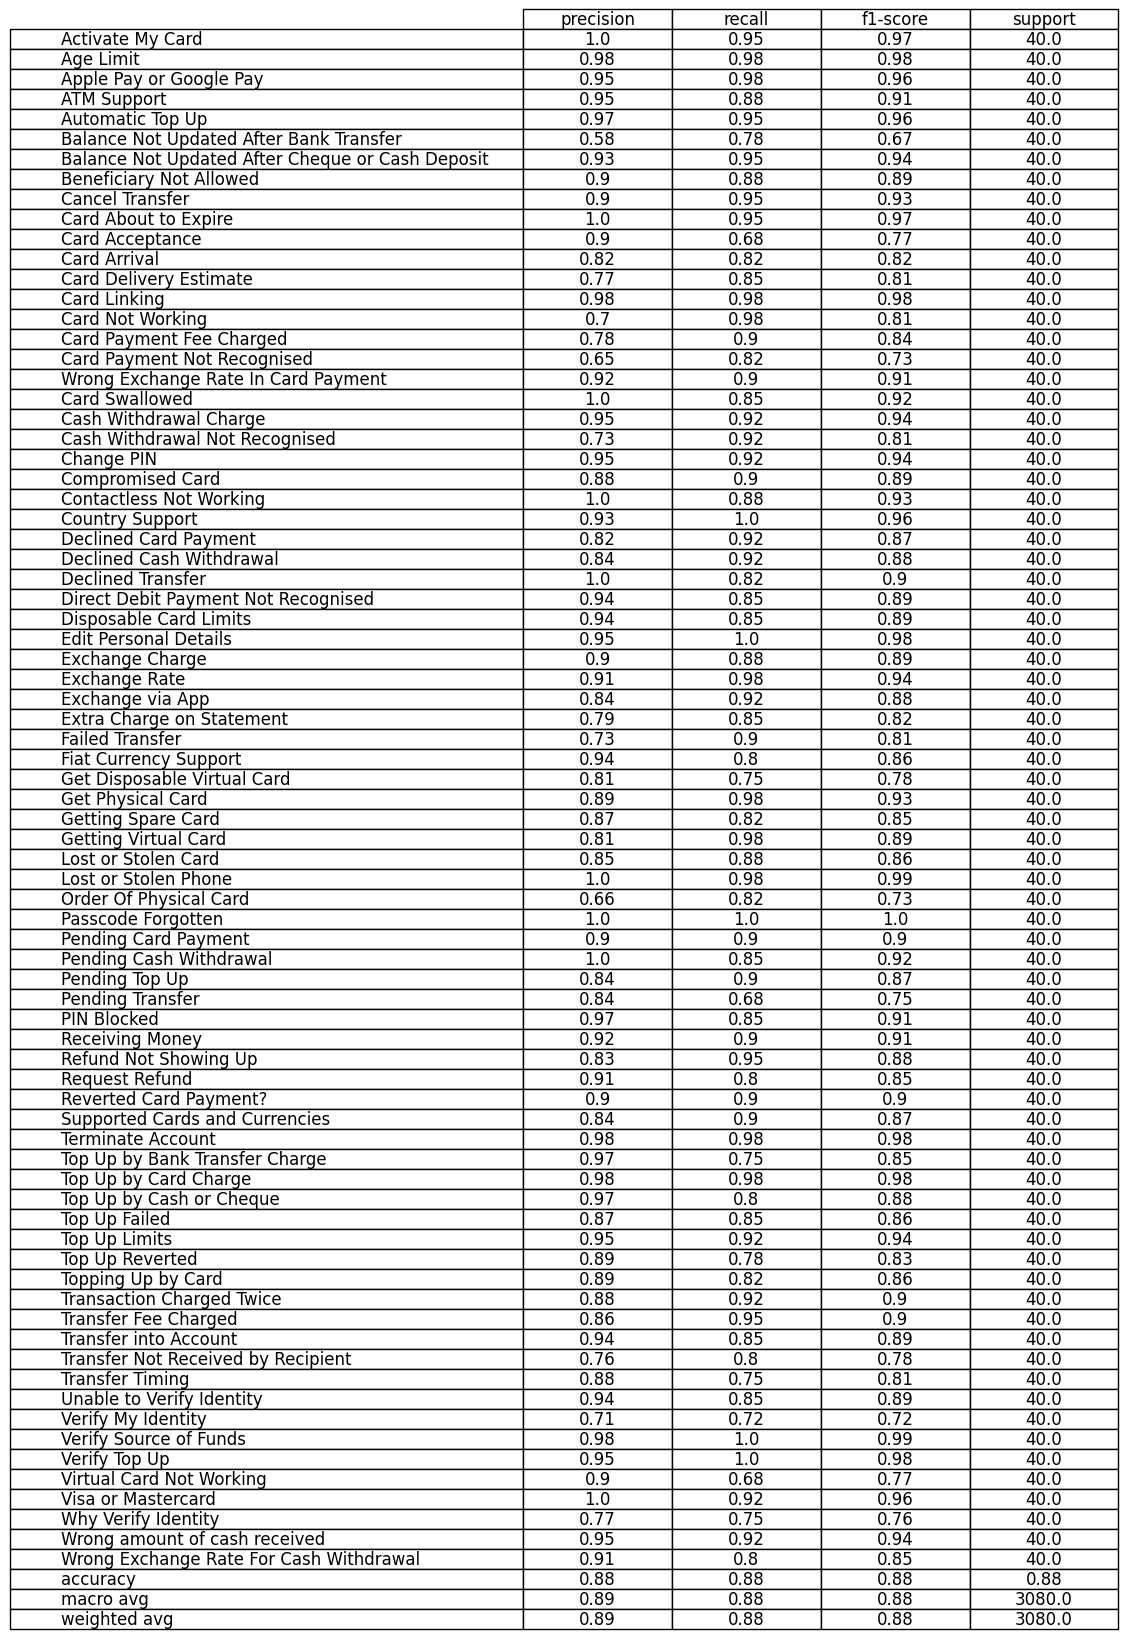
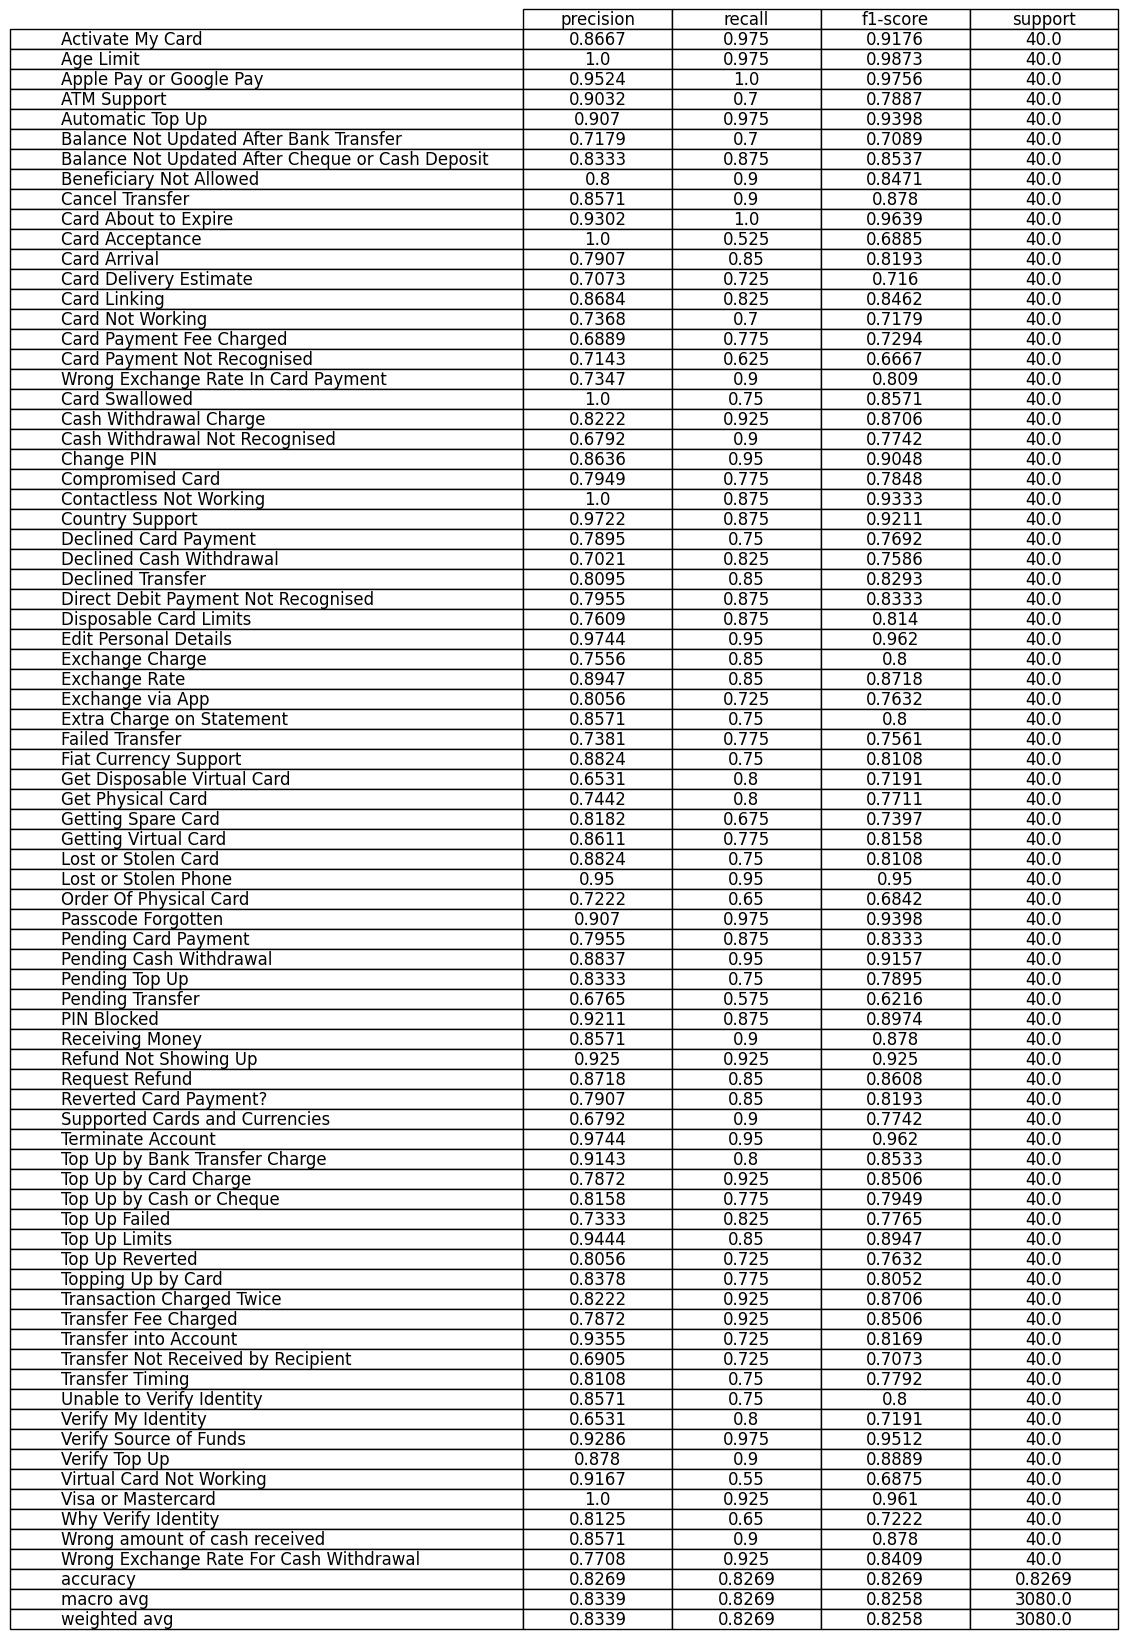
Models with optimal parameters

diff --git a/classifier.py b/classifier.py
@@ -34,7 +34,7 @@ def initial_train():
 def train_model_svm():
     vectorizer, X_train_transformed, y_train = initial_train()
 
-    model = svm.SVC(probability=True)
+    model = svm.SVC(probability=True, C=2, gamma='scale')
     model.fit(X_train_transformed, y_train)
 
     return model, vectorizer
@@ -44,7 +44,7 @@ def train_model_svm():
 def train_model_logistic_regression():
     vectorizer, X_train_transformed, y_train = initial_train()
 
-    model = LogisticRegression()
+    model = LogisticRegression(penalty='l2', solver='lbfgs', C=15)
     model.fit(X_train_transformed, y_train)
     return model, vectorizer
 
@@ -52,7 +52,7 @@ def train_model_logistic_regression():
 def train_model_naive_bayes():
     vectorizer, X_train_transformed, y_train = initial_train()
 
-    classifier = MultinomialNB()
+    classifier = MultinomialNB(alpha=0.1)
     classifier.fit(X_train_transformed, y_train)
     return classifier, vectorizer
 

diff --git a/bot.py b/bot.py
@@ -208,7 +208,7 @@ def send_report(message):
         df.index = df.index.map(label_intent_mapping)
         excluded_df = pd.DataFrame(data).T.loc[excluded_indices]
         df = pd.concat([df, excluded_df])
-        df = df.round(decimals=2)
+        df = df.round(decimals=4)
         table_plot = plt.table(cellText=df.values,
                                colLabels=df.columns,
                                rowLabels=df.index,
